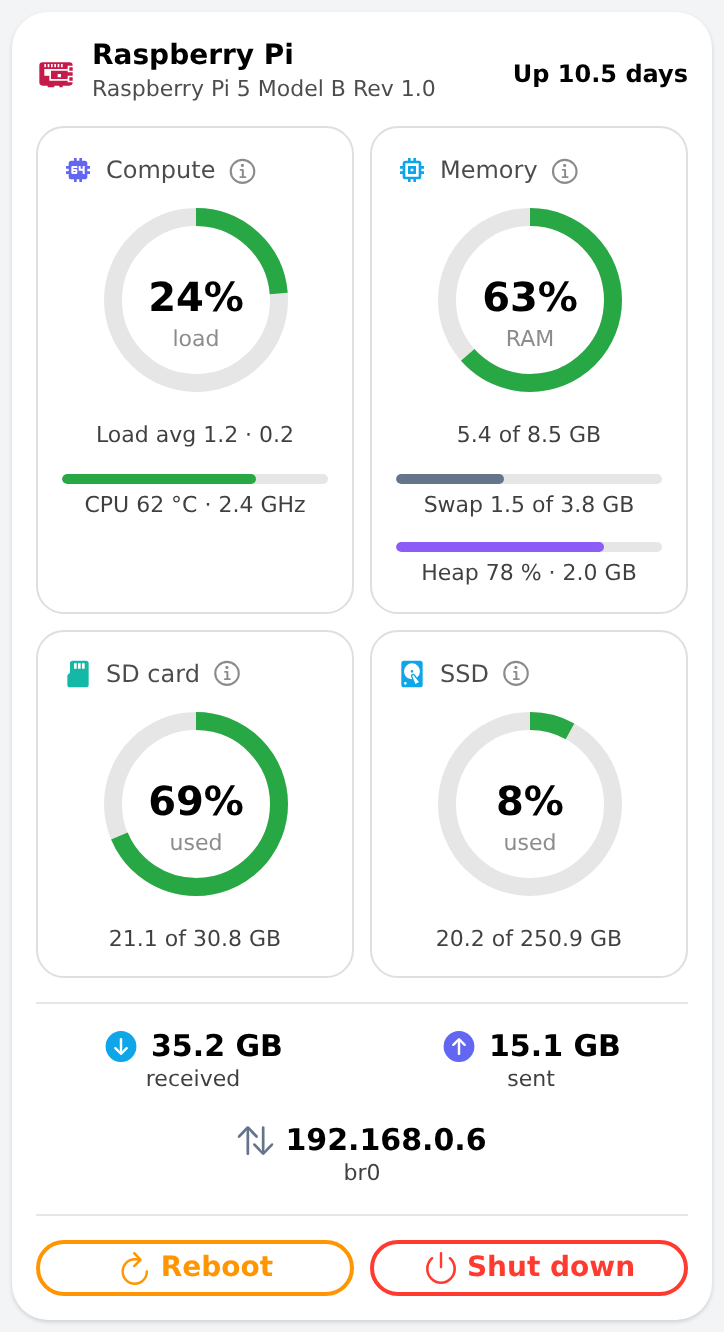
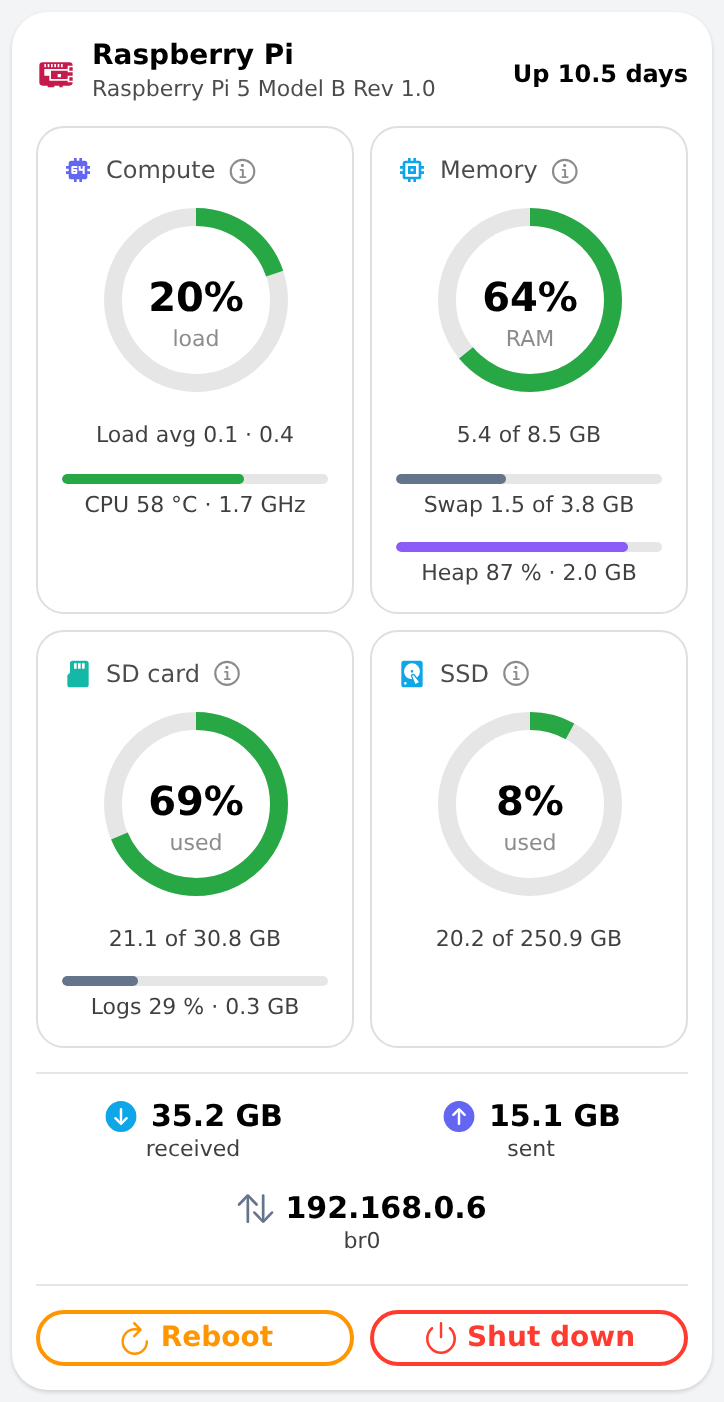
release(server_status_card): v1.5.0 — log volume bar under the SD card ring

diff --git a/widgets/server_status_card/README.md b/widgets/server_status_card/README.md
@@ -2,7 +2,7 @@
 
 ![Server status card](screenshots/card.png)
 
-One grouped card for the machine openHAB runs on, organised by layer: **Compute** (CPU load ring, load average, temperature bar with clock speed), **Memory** (RAM ring, swap bar, openHAB Java heap bar), **SD card** and **SSD** (used rings with used/total GB), a **network** row (received/sent since boot with icons, IP address and interface) and the **controls** Reboot and Shut down. The tiles wrap: two per row on a phone, all four in one row on wide screens. Every tile has an info icon that opens a short explanation (`info_popover`).
+One grouped card for the machine openHAB runs on, organised by layer: **Compute** (CPU load ring, load average, temperature bar with clock speed), **Memory** (RAM ring, swap bar, openHAB Java heap bar), **SD card** (used ring plus a bar for the zram log volume) and **SSD** (used rings with used/total GB), a **network** row (received/sent since boot with icons, IP address and interface) and the **controls** Reboot and Shut down. The tiles wrap: two per row on a phone, all four in one row on wide screens. Every tile has an info icon that opens a short explanation (`info_popover`).
 
 Native components only (`f7-gauge`, `f7-card`, `oh-button`); optional parts (the two buttons) render through repeaters. Reboot and shutdown send `ON` to exec
 switch items and always ask for confirmation first — shutdown needs physical access to start again; leave `rebootItem` / `shutdownItem` empty to hide a button.
@@ -29,6 +29,10 @@ link the data sent/received items to the channel group of your real interface.
 | `storageUsedItem` | `Systeminfo_UsedStorage` | Number:DataAmount (bytes). |
 | `storageTotalItem` | `Systeminfo_Total_Storage` | Number:DataAmount (bytes). |
 | `storageTitle` | `SD card` | Title of the first storage tile. |
+| `logsPctItem` | `Systeminfo_Logs_UsedPercent` | Optional zram log volume (ratio or %): bar under the SD card ring. Empty = hidden. |
+| `logsUsedItem` | `Systeminfo_Logs_Used` | Number:DataAmount. |
+| `logsTotalItem` | `Systeminfo_Logs_Total` | Number:DataAmount. |
+| `logsTitle` | `Logs` | Label of the log bar. |
 | `ssdPctItem` | `Systeminfo_SSD_UsedPercent` | Number (ratio or %) of the SSD volume — ring. |
 | `ssdUsedItem` | `Systeminfo_SSD_Used` | Number:DataAmount. |
 | `ssdTotalItem` | `Systeminfo_SSD_Total` | Number:DataAmount. |
@@ -44,6 +48,10 @@ link the data sent/received items to the channel group of your real interface.
 | `shutdownItem` | `gSystem_Shutdown` | Exec switch; ON powers the server off (with confirmation). Empty = no button. |
 
 ## Changelog
+
+### Version 1.5.0
+
+- SD card tile: bar for the zram log volume ("Logs 29 % · 0.3 GB"); new props `logsPctItem`, `logsUsedItem`, `logsTotalItem`, `logsTitle`
 
 ### Version 1.4.0
 
